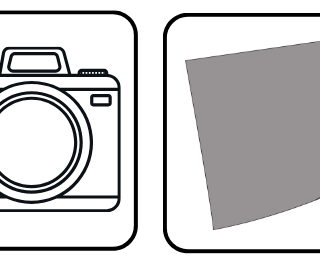
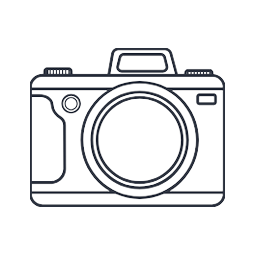
Rebuild the dock: correct artwork, one shared component
The dock icons were sliced from the source sheet with a stride that drifted off
the grid, so every glyph after Files was half-cut and shifted an app to the
right — Mail showed a bell, Settings showed an envelope, Notes showed a blank
sliver. The slices were also opaque 320x267 rectangles letterboxed into square
tiles, so the ten icons merged into one ragged white strip on the wallpaper.

Re-slice by walking the detected grid, drop the rounded-square frame that ships
around each glyph, key white to transparent and normalise every glyph to the
same optical size. Map each one to the app it actually depicts.

Then collapse three dock implementations into components/Playground/Dock.tsx.
FakeDesktop floated bare icons on the wallpaper, GuidedDesktopTask drew a dark
strip, and GuidedTroubleshootingTask drew a white strip with SVG icons instead
of the artwork — so "the dock" was a different object in each lesson. One tray
now serves all three: frosted panel, tinted tiles, labels, and the green
running dot the closing-vs-quitting lesson refers to.

diff --git a/components/Playground/Dock.tsx b/components/Playground/Dock.tsx
@@ -1,0 +1,139 @@
+"use client";
+
+import Image from "next/image";
+
+/**
+ * The one dock. Three simulators used to draw their own — FakeDesktop floated bare
+ * icons on the wallpaper, GuidedDesktopTask used a dark strip, GuidedTroubleshootingTask
+ * a white strip with different artwork entirely — so "the dock" looked like a different
+ * thing in each lesson. This renders the tray for all of them.
+ */
+
+const ICONS: Record<string, string> = {
+  messages: "/playgrounds/dock-messages.png",
+  browser: "/playgrounds/dock-browser.png",
+  files: "/playgrounds/dock-files.png",
+  mail: "/playgrounds/dock-mail.png",
+  settings: "/playgrounds/dock-settings.png",
+  photos: "/playgrounds/dock-photos.png",
+  "app-market": "/playgrounds/dock-app-market.png",
+  calendar: "/playgrounds/dock-calendar.png",
+  reminders: "/playgrounds/dock-reminders.png",
+  notes: "/playgrounds/dock-notes.png",
+};
+
+/** Soft tile colours, so ten black-line drawings still read as ten different apps. */
+const TINTS: Record<string, string> = {
+  messages: "#dcf2e3",
+  browser: "#dbeafe",
+  files: "#fdeccd",
+  mail: "#d9edfb",
+  settings: "#e5e8ee",
+  photos: "#fde0e4",
+  "app-market": "#e8e1fb",
+  calendar: "#fde5dd",
+  reminders: "#fdf1cb",
+  notes: "#ecf3d2",
+};
+
+const FALLBACK_TINT = "#e5e8ee";
+
+/** Call sites key apps by id ("app-market") or by label ("App Market"). Accept both. */
+function normalize(key: string) {
+  return key.trim().toLowerCase().replace(/\s+/g, "-");
+}
+
+export function dockIcon(key: string): string | undefined {
+  return ICONS[normalize(key)];
+}
+
+export interface DockItem {
+  id: string;
+  label: string;
+  /** Open but minimized — draws the green dot the closing-vs-quitting lesson refers to. */
+  running?: boolean;
+  /** Pulsing yellow ring for the step the learner is on. */
+  highlighted?: boolean;
+  /** Plays the launch bounce once. */
+  bouncing?: boolean;
+}
+
+interface DockProps {
+  items: DockItem[];
+  onOpen: (id: string) => void;
+  /** Tray colour. Match it to whatever sits behind the dock. */
+  tone?: "light" | "dark";
+  size?: "md" | "sm";
+  showLabels?: boolean;
+  className?: string;
+}
+
+export default function Dock({ items, onOpen, tone = "light", size = "md", showLabels = true, className = "" }: DockProps) {
+  // The column is exactly the tile's width. Ten of these plus gaps fit the lesson pane,
+  // where a wider column did not — a long label wraps to a second line instead.
+  const tile = size === "md" ? "w-14 h-14" : "w-12 h-12";
+  const col = size === "md" ? "w-14" : "w-12";
+  const pad = size === "md" ? "p-2.5" : "p-2";
+  const px = size === "md" ? 56 : 48;
+
+  return (
+    // items-start, so a label that wraps to two lines grows downward instead of
+    // shoving its own tile out of line with the rest of the row.
+    <div
+      className={`flex max-w-full items-start gap-1 rounded-2xl px-2 py-2 backdrop-blur-md ${className}`}
+      style={{
+        background: tone === "dark" ? "rgba(17,24,39,0.55)" : "rgba(255,255,255,0.55)",
+        border: tone === "dark" ? "1px solid rgba(255,255,255,0.14)" : "1px solid rgba(255,255,255,0.85)",
+        boxShadow: tone === "dark" ? "0 8px 24px rgba(0,0,0,0.42)" : "0 8px 24px rgba(15,23,42,0.16)",
+      }}
+    >
+      {items.map(({ id, label, running, highlighted, bouncing }) => {
+        const icon = dockIcon(id) ?? dockIcon(label);
+        return (
+          <button
+            key={id}
+            onClick={() => onOpen(id)}
+            aria-label={label}
+            className={`group flex shrink-0 flex-col items-center gap-1 rounded-xl outline-none focus-visible:ring-2 focus-visible:ring-blue-500 ${col} ${
+              bouncing ? "animate-dock-bounce" : ""
+            }`}
+          >
+            <span
+              className={`relative block ${tile} ${pad} rounded-2xl transition-transform group-hover:-translate-y-1 group-active:scale-95 ${
+                highlighted ? "animate-ring-pulse" : ""
+              }`}
+              style={{
+                background: TINTS[normalize(id)] ?? TINTS[normalize(label)] ?? FALLBACK_TINT,
+                border: "1px solid rgba(15,23,42,0.08)",
+                boxShadow: "0 1px 2px rgba(15,23,42,0.14)",
+              }}
+            >
+              {icon ? (
+                <Image src={icon} alt="" fill sizes={`${px}px`} className={`object-contain ${pad}`} />
+              ) : (
+                <span className="flex h-full w-full items-center justify-center text-lg font-bold text-slate-600">
+                  {label.charAt(0)}
+                </span>
+              )}
+              {running && (
+                <span
+                  aria-label={`${label} is still open`}
+                  className="absolute -top-1 -right-1 h-3 w-3 rounded-full bg-green-500 ring-2 ring-white"
+                />
+              )}
+            </span>
+            {showLabels && (
+              <span
+                className={`w-full select-none text-center text-[10px] font-medium leading-tight ${
+                  tone === "dark" ? "text-slate-200" : "text-slate-700"
+                }`}
+              >
+                {label}
+              </span>
+            )}
+          </button>
+        );
+      })}
+    </div>
+  );
+}

diff --git a/components/Playground/GuidedTroubleshootingTask.tsx b/components/Playground/GuidedTroubleshootingTask.tsx
@@ -1,9 +1,10 @@
 "use client";
 
-import { useState, useEffect, type ReactNode } from "react";
+import { useState, useEffect } from "react";
 import SimulatorFrame from "./SimulatorFrame";
+import Dock from "./Dock";
 import { useStepRunner, type SimMode } from "./useStepRunner";
-import { GlobeIcon, MailIcon, GearIcon, CameraIcon, NoteIcon, SmartphoneIcon } from "./Icons";
+import { GlobeIcon, MailIcon, GearIcon } from "./Icons";
 
 export type GuidedTroubleshootingStep = {
   say: string;
@@ -1069,44 +1070,34 @@ export default function GuidedTroubleshootingTask({ goal, scenario, steps, mode:
         </div>
 
         {/* Dock */}
-        <div className="h-14 shrink-0 flex items-center justify-center gap-3 bg-white/80 backdrop-blur border-t border-gray-200 px-4">
-          {dockApps.map((app) => {
-            const isTarget = hl("dock-app", app.id);
-            const appIconMap: Record<string, ReactNode> = {
-              Browser: <GlobeIcon size={24} />, Mail: <MailIcon size={24} />, Settings: <GearIcon size={24} />,
-              Photos: <CameraIcon size={24} />, Notes: <NoteIcon size={24} />,
-            };
-            const appIcon = appIconMap[app.id] ?? <SmartphoneIcon size={24} />;
-            return (
-              <button
-                key={app.id}
-                onClick={() => {
-                  if (mode === "public-wifi" && app.id === "Settings") {
-                    handleOpenSettingsPrivacy();
-                  } else if (mode === "public-wifi" && app.id === "Browser") {
-                    setPrivacyOpen(false);
-                  } else if (mode === "password-reset" && app.id === "Mail") {
-                    handleOpenMailFromDock();
-                  } else if (mode === "password-reset" && app.id === "Browser") {
-                    setPrApp("browser");
-                  } else if (mode === "app-reinstall" && app.id === "App Market") {
-                    handleOpenAppMarket();
-                  } else if (step?.action === "open-browser" && app.id === "Browser") {
-                    handleOpenBrowser();
-                  } else if (mode === "error-restart" && app.id === "Settings") {
-                    handleErOpenSettings();
-                  } else {
-                    handleRestartApp(app.id);
-                  }
-                }}
-                className={`flex flex-col items-center gap-0.5 px-2 py-1 rounded-xl transition-all hover:bg-gray-100 ${isTarget ? pulse : ""}`}
-                aria-label={app.label}
-              >
-                <span className="text-gray-600">{appIcon}</span>
-                <span className="text-[10px] text-gray-500">{app.label}</span>
-              </button>
-            );
-          })}
+        <div className="shrink-0 flex items-center justify-center px-4 py-2">
+          <Dock
+            size="sm"
+            items={dockApps.map((app) => ({
+              id: app.id,
+              label: app.label,
+              highlighted: hl("dock-app", app.id),
+            }))}
+            onOpen={(id) => {
+              if (mode === "public-wifi" && id === "Settings") {
+                handleOpenSettingsPrivacy();
+              } else if (mode === "public-wifi" && id === "Browser") {
+                setPrivacyOpen(false);
+              } else if (mode === "password-reset" && id === "Mail") {
+                handleOpenMailFromDock();
+              } else if (mode === "password-reset" && id === "Browser") {
+                setPrApp("browser");
+              } else if (mode === "app-reinstall" && id === "App Market") {
+                handleOpenAppMarket();
+              } else if (step?.action === "open-browser" && id === "Browser") {
+                handleOpenBrowser();
+              } else if (mode === "error-restart" && id === "Settings") {
+                handleErOpenSettings();
+              } else {
+                handleRestartApp(id);
+              }
+            }}
+          />
         </div>
       </div>
     </SimulatorFrame>

diff --git a/components/Playground/FakeDesktop.tsx b/components/Playground/FakeDesktop.tsx
@@ -1,6 +1,5 @@
 "use client";
 
-import Image from "next/image";
 import { useEffect, useState } from "react";
 import MessagingApp from "./Desktop/MessagingApp";
 import BrowserApp from "./Desktop/BrowserApp";
@@ -14,6 +13,7 @@ import CalendarApp from "./Desktop/CalendarApp";
 import AppMarketApp from "./Desktop/AppMarketApp";
 import { SimThemeProvider, useSimTheme } from "./Desktop/SimThemeContext";
 import WindowControls from "./WindowControls";
+import Dock from "./Dock";
 import { BellOffIcon } from "./Icons";
 
 export type DesktopAppId = "messages" | "browser" | "files" | "mail" | "settings" | "photos" | "app-market" | "calendar" | "reminders" | "notes";
@@ -47,19 +47,6 @@ interface FakeDesktopProps {
   settingsProps?: SettingsCallbacks;
   autoOpenApp?: DesktopAppId;
 }
-
-const APPS: { id: DesktopAppId; label: string; icon: string }[] = [
-  { id: "messages",   label: "Messages",   icon: "/playgrounds/dock-messages.png" },
-  { id: "browser",    label: "Browser",    icon: "/playgrounds/dock-browser.png" },
-  { id: "files",      label: "Files",      icon: "/playgrounds/dock-files.png" },
-  { id: "mail",       label: "Mail",       icon: "/playgrounds/dock-mail.png" },
-  { id: "settings",   label: "Settings",   icon: "/playgrounds/dock-settings.png" },
-  { id: "photos",     label: "Photos",     icon: "/playgrounds/dock-photos.png" },
-  { id: "app-market", label: "App Market", icon: "/playgrounds/dock-app-market.png" },
-  { id: "calendar",   label: "Calendar",   icon: "/playgrounds/dock-calendar.png" },
-  { id: "reminders",  label: "Reminders",  icon: "/playgrounds/dock-reminders.png" },
-  { id: "notes",      label: "Notes",      icon: "/playgrounds/dock-notes.png" },
-];
 
 export const APP_TITLES: Record<DesktopAppId, string> = {
   messages: "Messages",
@@ -295,31 +282,18 @@ function FakeDesktopInner({ onAppOpened, filesHint, filesHighlight, filesEnabled
               : "linear-gradient(115deg, #f5b9b9 0%, #fadcdc 20%, #d9f1d9 38%, #c2e9c2 50%, #daf2da 62%, #ccd3f3 82%, #bdc7ef 100%)",
           }}
         />
-        <div className="absolute bottom-4 left-1/2 -translate-x-1/2 flex gap-2 items-end">
-          {APPS.map(({ id, label, icon }) => (
-            <div key={id} className="flex flex-col items-center gap-0.5">
-              <button
-                onClick={() => openApp(id)}
-                aria-label={label}
-                className={`flex flex-col items-center gap-0.5 ${
-                  launchingApp === id ? "animate-dock-bounce" : "transition-transform hover:scale-110 active:scale-95"
-                }`}
-              >
-                <div className={`relative w-14 h-14 rounded-2xl overflow-hidden ${highlightApp === id ? "animate-ring-pulse" : ""}`}>
-                  <Image src={icon} alt="" fill sizes="56px" className="object-contain" />
-                  {minimized.has(id) && (
-                    <span
-                      aria-label={`${APP_TITLES[id]} is still open`}
-                      className="absolute -top-0.5 -right-0.5 w-3 h-3 rounded-full bg-green-500 border-2 border-white"
-                    />
-                  )}
-                </div>
-                <span className={`text-[9px] font-medium leading-none select-none ${isDark ? "text-gray-300" : "text-gray-700"}`}>
-                  {APP_TITLES[id]}
-                </span>
-              </button>
-            </div>
-          ))}
+        <div className="absolute bottom-4 inset-x-2 flex justify-center">
+          <Dock
+            tone={isDark ? "dark" : "light"}
+            items={BUILT_IN_APPS.map((id) => ({
+              id,
+              label: APP_TITLES[id],
+              running: minimized.has(id),
+              highlighted: highlightApp === id,
+              bouncing: launchingApp === id,
+            }))}
+            onOpen={(id) => openApp(id as DesktopAppId)}
+          />
         </div>
 
         {/* Apps — kept mounted while minimized so their state survives. Each wrapper's own

diff --git a/components/Playground/GuidedDesktopTask.tsx b/components/Playground/GuidedDesktopTask.tsx
@@ -1,8 +1,8 @@
 "use client";
 
-import Image from "next/image";
 import { useEffect, useRef, useState } from "react";
 import WindowControls from "./WindowControls";
+import Dock from "./Dock";
 import { NoteIcon } from "./Icons";
 import SimulatorFrame from "./SimulatorFrame";
 import { useStepRunner, type SimMode } from "./useStepRunner";
@@ -26,10 +26,10 @@ export interface DesktopStep {
 const HIDE_WINDOW_ACTIONS: StepAction[] = ["open-app", "open-clock", "open-wifi-panel", "open-battery-panel"];
 
 const DOCK_APPS = [
-  { id: "notes",    label: "Notes",    icon: "/playgrounds/dock-notes.png" },
-  { id: "browser",  label: "Browser",  icon: "/playgrounds/dock-browser.png" },
-  { id: "files",    label: "Files",    icon: "/playgrounds/dock-files.png" },
-  { id: "messages", label: "Messages", icon: "/playgrounds/dock-messages.png" },
+  { id: "notes",    label: "Notes" },
+  { id: "browser",  label: "Browser" },
+  { id: "files",    label: "Files" },
+  { id: "messages", label: "Messages" },
 ] as const;
 
 interface GuidedDesktopTaskProps {
@@ -381,30 +381,23 @@ export default function GuidedDesktopTask({ goal, steps, mode, hint, onResult }:
       </div>
 
       {/* Dock */}
-      <div className="shrink-0 bg-white/10 border-t border-white/20 flex items-center justify-center gap-3 py-2 px-4 backdrop-blur-sm" style={{ background: "rgba(30,40,55,0.85)" }}>
-        {DOCK_APPS.map((app) => {
-          const isTarget = step?.action === "open-app" && step.target === app.id;
-          const isMinimizedTarget = minimized && step?.action === "restore";
-          return (
-            <div key={app.id} className="flex flex-col items-center gap-0.5">
-              <button
-                onClick={() => {
-                  if (minimized && app.id === openedAppId && allow((s) => s.action === "restore")) { onRestore(); return; }
-                  onDockClick(app.id);
-                }}
-                className={`relative w-12 h-12 rounded-xl overflow-hidden transition-transform hover:scale-110 ${
-                  isTarget || (isMinimizedTarget && app.id === openedAppId) ? "ring-4 ring-yellow-400 animate-pulse" : ""
-                }`}
-              >
-                <Image src={app.icon} alt={app.label} fill sizes="48px" className="object-contain" />
-                {minimized && app.id === openedAppId && (
-                  <span className="absolute bottom-0.5 left-1/2 -translate-x-1/2 w-1.5 h-1.5 rounded-full bg-green-400" />
-                )}
-              </button>
-              <span className="text-[9px] font-medium text-gray-300 leading-none select-none">{app.label}</span>
-            </div>
-          );
-        })}
+      <div className="shrink-0 flex items-center justify-center py-2 px-4">
+        <Dock
+          tone="dark"
+          size="sm"
+          items={DOCK_APPS.map((app) => ({
+            id: app.id,
+            label: app.label,
+            running: minimized && app.id === openedAppId,
+            highlighted:
+              (step?.action === "open-app" && step.target === app.id) ||
+              (minimized && step?.action === "restore" && app.id === openedAppId),
+          }))}
+          onOpen={(id) => {
+            if (minimized && id === openedAppId && allow((s) => s.action === "restore")) { onRestore(); return; }
+            onDockClick(id);
+          }}
+        />
       </div>
       </div>
     </SimulatorFrame>
